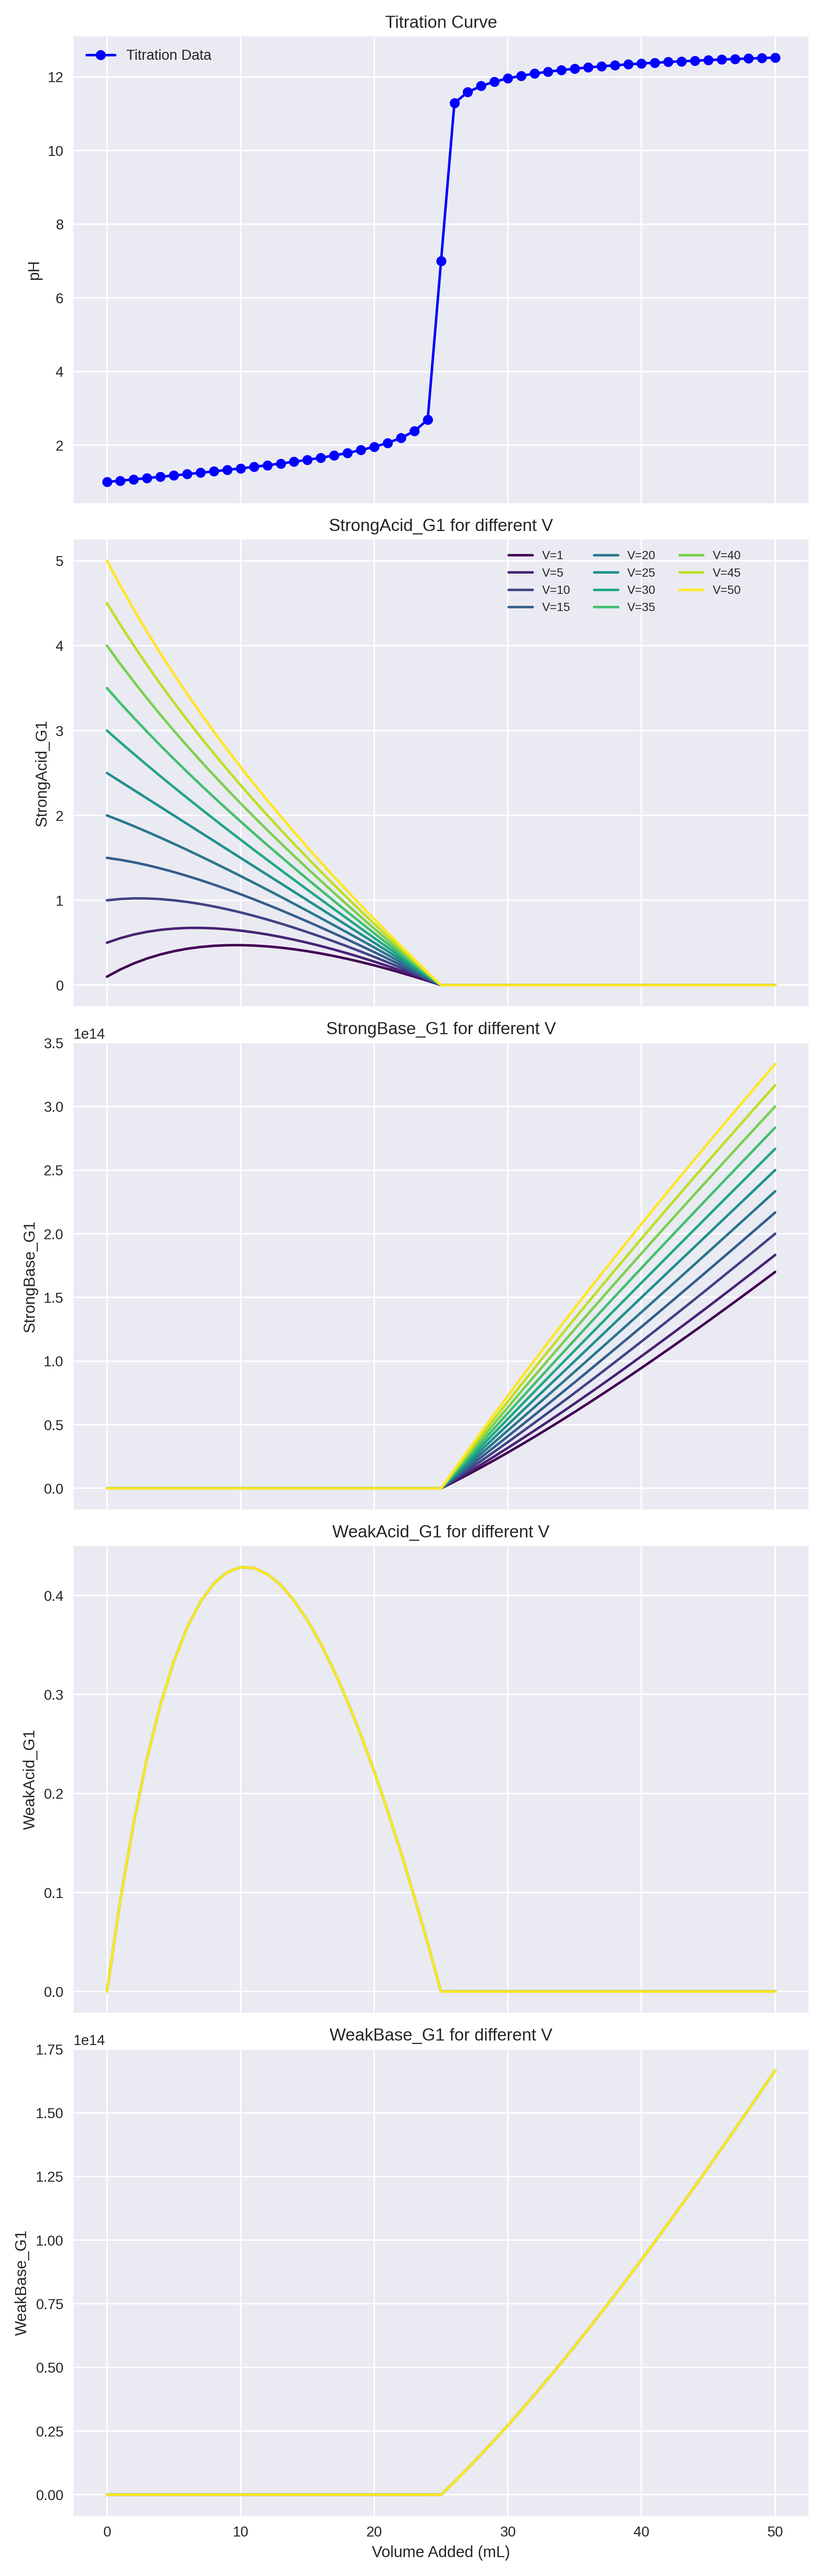
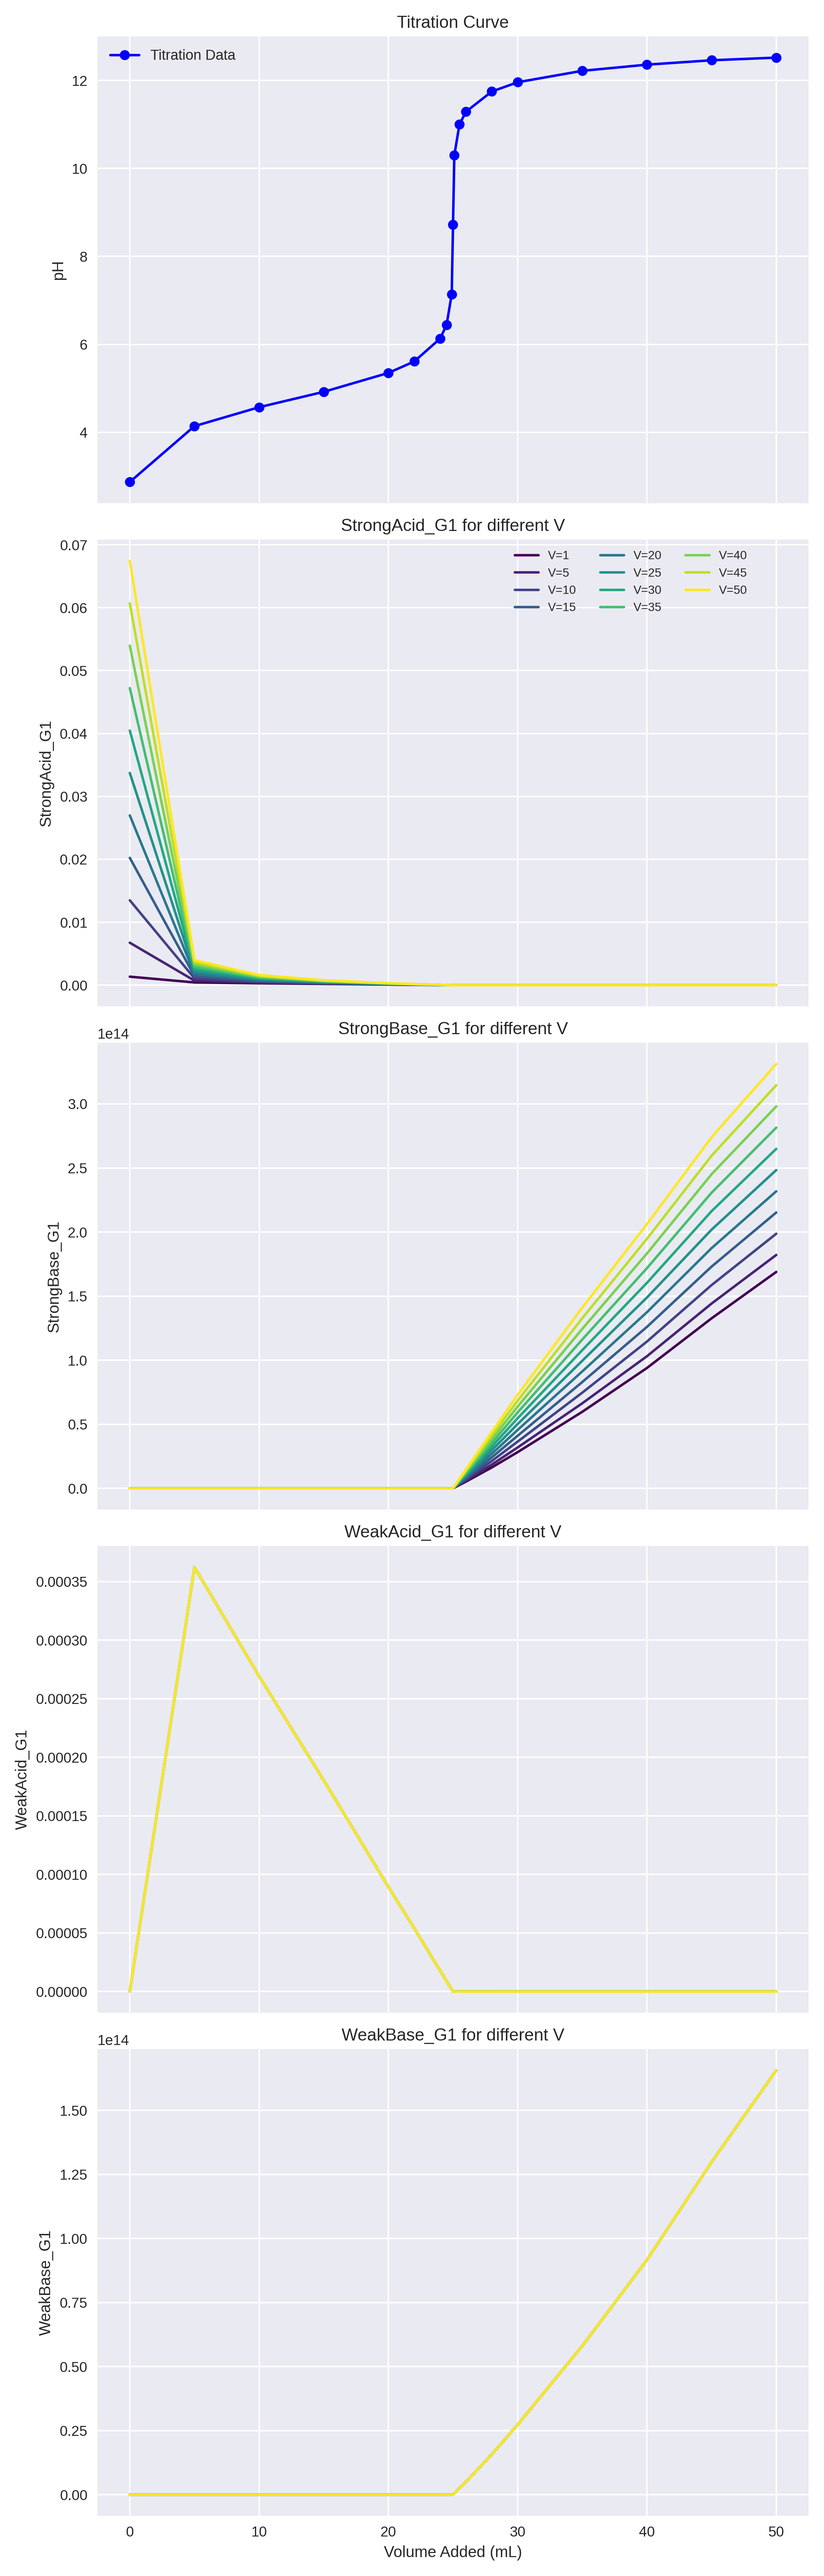
GII

diff --git a/PyGranTitEQP_3D.py b/PyGranTitEQP_3D.py
@@ -1,5 +1,5 @@
-# second_prototype.py: Second Python script for PyGranTitEQP
-# Loads data.dat (volume in mL, pH) and plots titration curve and G1's for different initial volumes V (1,5,10,...,50)
+# second_prototype.py: Script for PyGranTitEQP
+# Loads data.dat (volume in mL, pH) and plots titration curve and Schwarz functions for V=25 and varying k values
 
 import pandas as pd
 import matplotlib.pyplot as plt
@@ -8,11 +8,10 @@ import numpy as np
 def load_data(file_path):
     """Load titration data from a text file."""
     try:
-        # Assume space-separated, no headers
-        # Adjust delimiter (e.g., delimiter=',') or header (e.g., header=0) if needed
         df = pd.read_csv(file_path, delim_whitespace=True, names=['volume', 'pH'])
         print("Data loaded successfully:")
         print(df.head())
+        print(f"Volume range: {df['volume'].min()} to {df['volume'].max()} mL")
         return df
     except FileNotFoundError:
         print(f"Error: '{file_path}' not found. Ensure the file is in the same directory.")
@@ -26,84 +25,80 @@ def validate_data(df):
     if df is None:
         print("No data to validate.")
         return False
-    # Check monotonic increasing volumes
     if not df['volume'].is_monotonic_increasing:
         print("Warning: Volumes are not strictly increasing. Check data integrity.")
         return False
-    # Check reasonable pH values (0 to 14)
     if (df['pH'] < 0).any() or (df['pH'] > 14).any():
         print("Warning: pH values outside typical range (0 to 14).")
     print(f"Data points: {len(df)}")
     return True
 
-def plot_titration_and_g1_v_vary(df, output_file='titration_and_g1_v_vary.png'):
-    """Plot titration curve and G1's for different initial volumes V in a 5x1 grid."""
+def plot_titration_and_schwarz(df, output_file='titration_and_schwarz.png'):
+    """Plot titration curve and Schwarz functions for V=25 and varying k values in a 5x1 grid."""
     if df is None or not validate_data(df):
         print("Cannot plot: Invalid or no data.")
         return
-    # Set professional plot style
-    plt.style.use('seaborn')
+    plt.style.use('seaborn-v0_8')
 
-    # Convert to NumPy arrays for plotting
     volume = df['volume'].to_numpy()
     pH = df['pH'].to_numpy()
 
-    # V values
-    V_values = [1, 5, 10, 15, 20, 25, 30, 35, 40, 45, 50]
-    
-    # Define G1 functions
-    def strongacid_g1(volume, pH, V):
-        return (volume + V) * np.power(10, -pH)
+    # Fixed V and k values
+    V = 25
+    k_values = [0.99, 0.9, 1, 1.1, 1.11]
+    k2 = k22 = k6 = k66 = 1.0  # Fixed scaling constants
 
-    def strongbase_g1(volume, pH, V):
-        return (volume + V) * np.power(10, pH)
+    # Define Schwarz functions
+    def strongacid_g1(volume, pH, k1):
+        return ((volume + V) * np.power(10, k1 - pH)) / k2
 
-    def weakacid_g1(volume, pH, V):
-        return volume * np.power(10, -pH)  # No V dependence
+    def strongbase_g1(volume, pH, k11):
+        return ((volume + V) * np.power(10, k11 + pH)) / k22
 
-    def weakbase_g1(volume, pH, V):
-        return volume * np.power(10, pH)  # No V dependence
+    def weakacid_g1(volume, pH, k5):
+        return (volume * np.power(10, k5 - pH)) / k6  # No V dependence
 
-    # G1 types and labels
-    g1_types = [strongacid_g1, strongbase_g1, weakacid_g1, weakbase_g1]
-    g1_labels = ['StrongAcid_G1', 'StrongBase_G1', 'WeakAcid_G1', 'WeakBase_G1']
+    def weakbase_g1(volume, pH, k55):
+        return (volume * np.power(10, k55 + pH)) / k66  # No V dependence
 
-    # Color map for V values
-    colors = plt.cm.viridis(np.linspace(0, 1, len(V_values)))
+    schwarz_types = [strongacid_g1, strongbase_g1, weakacid_g1, weakbase_g1]
+    schwarz_labels = ['Schwarz_StrongAcid_G1', 'Schwarz_StrongBase_G1', 'Schwarz_WeakAcid_G1', 'Schwarz_WeakBase_G1']
+    colors = plt.cm.viridis(np.linspace(0, 1, len(k_values)))
 
-    # Create figure with 5 rows, 1 column
     fig, axes = plt.subplots(5, 1, figsize=(8, 25), sharex=True)
 
     # Row 1: Titration curve
     axes[0].plot(volume, pH, marker='o', linestyle='-', color='blue', label='Titration Data')
     axes[0].set_ylabel('pH')
     axes[0].set_title('Titration Curve')
+    ### axes[0].set_xlim(0, 10)
+    if pH.size > 0:
+        y_min, y_max = np.min(pH), np.max(pH)
+        y_margin = (y_max - y_min) * 0.1
+        axes[0].set_ylim(y_min - y_margin, y_max + y_margin)
     axes[0].grid(True)
     axes[0].legend()
 
-    # Rows 2-5: Each G1 type with multiple V lines
+    # Rows 2-5: Schwarz functions with varying k
     for row in range(1, 5):
-        g1_func = g1_types[row-1]
-        label = g1_labels[row-1]
+        schwarz_func = schwarz_types[row-1]
+        label = schwarz_labels[row-1]
         axes[row].set_ylabel(label)
-        axes[row].set_title(label + ' for different V')
+        axes[row].set_title(f'{label} for V={V}, varying k')
+        for i, k in enumerate(k_values):
+            y = schwarz_func(volume, pH, k)
+            axes[row].plot(volume, y, label=f'k={k}', color=colors[i])
+            if y.size > 0:
+                y_min, y_max = np.min(y), np.max(y)
+                if y_max != y_min:  # Avoid zero range
+                    y_margin = (y_max - y_min) * 0.1
+                    axes[row].set_ylim(y_min - y_margin, y_max + y_margin)
         axes[row].grid(True)
-
-        for i, V in enumerate(V_values):
-            g1 = g1_func(volume, pH, V)
-            axes[row].plot(volume, g1, label=f'V={V}', color=colors[i])
-        
-        # Only show legend for StrongAcid_G1 (row 2, index 1)
         if row == 1:
             axes[row].legend(ncol=3, bbox_to_anchor=(0.75, 1.0), loc='upper center', fontsize='small')
-            
-        #axes[row].legend(ncol=3, bbox_to_anchor=(0.5, -0.2), loc='upper center', fontsize='small')
 
-    # Set x-axis label on the last row
     axes[-1].set_xlabel('Volume Added (mL)')
-
     plt.tight_layout()
-    # Save combined plot
     plt.savefig(output_file, dpi=300)
     print(f"Plots saved as '{output_file}'")
     plt.show()
@@ -113,7 +108,7 @@ def main():
     file_path = 'data.dat'
     df = load_data(file_path)
     if df is not None:
-        plot_titration_and_g1_v_vary(df)
+        plot_titration_and_schwarz(df)
 
 if __name__ == '__main__':
     main()

diff --git a/PyGranTitEQP_prototype.py b/PyGranTitEQP_prototype.py
@@ -42,7 +42,7 @@ def plot_titration_and_gran(df, output_file='titration_and_gran.png'):
         print("Cannot plot: Invalid or no data.")
         return
     # Set professional plot style
-    plt.style.use('seaborn')
+    plt.style.use('seaborn-v0_8')
     fig, axes = plt.subplots(7, 4, figsize=(16, 28), sharex=True)
 
     # Convert to NumPy arrays for plotting

diff --git a/PyGranTitEQP_prototype_range.py b/PyGranTitEQP_prototype_range.py
@@ -43,7 +43,7 @@ def plot_titration_and_gran(df, output_file='titration_and_gran.png'):
         print("Cannot plot: Invalid or no data.")
         return
     # Set professional plot style
-    plt.style.use('seaborn')
+    plt.style.use('seaborn-v0_8')
     fig, axes = plt.subplots(7, 4, figsize=(16, 28), sharex=True)
 
     # Convert to NumPy arrays for plotting
